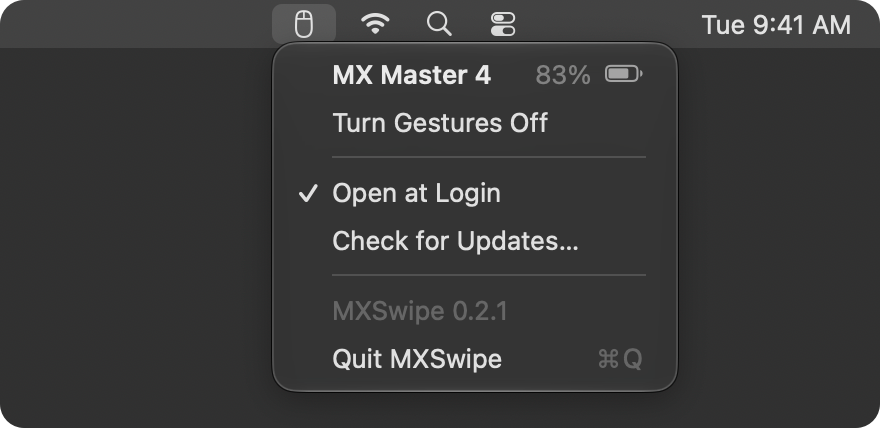
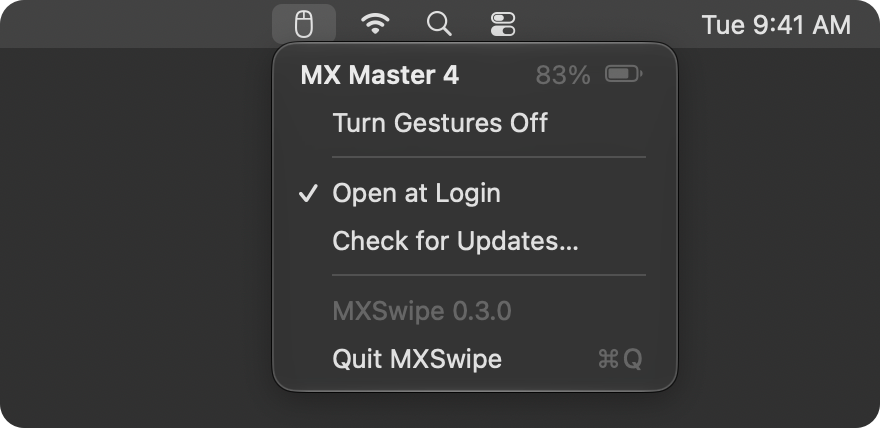
Address review: pin MenuHub 0.1.0, disable Check for Updates while Sparkle is busy, re-render README images

Changed region(s): [[0.3375, 0.1519, 0.583, 0.2126], [0.6136, 0.1519, 0.7364, 0.2126], [0.5523, 0.6986, 0.583, 0.7593]]

diff --git a/Sources/MXSwipe/main.swift b/Sources/MXSwipe/main.swift
@@ -20,7 +20,7 @@ final class AppDelegate: NSObject, NSApplicationDelegate {
     private static let logger = Logger(subsystem: "com.mattstallone.mxmasterinput", category: "App")
     private let session = MXMasterSession()
     private let updater = SPUStandardUpdaterController(startingUpdater: true, updaterDelegate: nil, userDriverDelegate: nil)
-    private var menu: MenuHub?
+    private var hub: MenuHub?
     private var connection: Task<Void, Never>?
     private var retry: Task<Void, Never>?
     private var retryDelay: Duration = .seconds(2)
@@ -30,7 +30,7 @@ final class AppDelegate: NSObject, NSApplicationDelegate {
     private var mouseName: String?
 
     private var status = Status.off {
-        didSet { menu?.update() }
+        didSet { hub?.update() }
     }
 
     /// Stored under the key 0.1.x used, so an upgrade keeps the user's choice.
@@ -41,7 +41,7 @@ final class AppDelegate: NSObject, NSApplicationDelegate {
 
     func applicationDidFinishLaunching(_ notification: Notification) {
         UserDefaults.standard.register(defaults: ["autoEnable": true])
-        menu = MenuHub(icon: NSImage(systemSymbolName: "computermouse", accessibilityDescription: appName)!) { self.section }
+        hub = MenuHub(icon: NSImage(systemSymbolName: "computermouse", accessibilityDescription: nil)!) { self.section }
         NSWorkspace.shared.notificationCenter.addObserver(self, selector: #selector(systemDidWake),
                                                           name: NSWorkspace.didWakeNotification, object: nil)
         if isEnabled { connect() }
@@ -53,7 +53,7 @@ final class AppDelegate: NSObject, NSApplicationDelegate {
 
     // MARK: Menu
 
-    /// The mouse, and its battery or what's keeping gestures from working. Read each time the menu opens.
+    /// This app's part of the menu, read again whenever it may be shown.
     private var section: MenuSection {
         var items: [MenuItem] = []
         switch status {
@@ -69,11 +69,12 @@ final class AppDelegate: NSObject, NSApplicationDelegate {
             .action(isEnabled ? "Turn Gestures Off" : "Turn Gestures On") { self.toggleEnabled() },
             .separator,
             .action("Open at Login", isOn: SMAppService.mainApp.status == .enabled) { self.toggleLogin() },
-            .action("Check for Updates…") { self.updater.checkForUpdates(nil) },
+            .action("Check for Updates…", isEnabled: updater.updater.canCheckForUpdates) { self.updater.checkForUpdates(nil) },
         ]
         return MenuSection(header: header, items: items, isActive: status.isActive)
     }
 
+    /// The mouse, and its battery or what's keeping gestures from working.
     private var header: MenuHeader {
         switch status {
         case let .connected(name, battery, asleep):

diff --git a/Tools/make-readme-assets.swift b/Tools/make-readme-assets.swift
@@ -18,16 +18,13 @@ let barHeight: CGFloat = 24
 
 /// The menu as MXSwipe shows it on its own, with the mouse connected.
 @MainActor func makeMenu() -> NSMenu {
-    let mxswipe = Member(pid: 1, name: "MXSwipe", version: "0.3.0", launched: Date(), revision: 0, isActive: true,
+    let mxswipe = Member(pid: 1, name: "MXSwipe", launched: Date(), revision: 0, isActive: true,
                          header: MenuHeader(title: "MX Master 4", detail: .battery(83)), items: [
                              .action("Turn Gestures Off") {}, .separator,
                              .action("Open at Login", isOn: true) {}, .action("Check for Updates…") {},
                          ])
     let menu = NSMenu()
-    MenuHub.populate(menu, with: [mxswipe], target: nil)
-    // Without an app to handle them, actions would draw disabled; enable them, and leave information gray.
-    menu.autoenablesItems = false
-    for item in menu.items { item.isEnabled = item.action != nil }
+    MenuHub.populate(menu, with: [mxswipe], version: "0.3.0", target: nil)
     return menu
 }
 

diff --git a/Package.swift b/Package.swift
@@ -6,7 +6,7 @@ let package = Package(
     platforms: [.macOS(.v26)],
     dependencies: [
         .package(url: "https://github.com/sparkle-project/Sparkle", exact: "2.9.4"),
-        .package(path: "../menuhub"),
+        .package(url: "https://github.com/mstallone/menuhub", exact: "0.1.0"),
     ],
     targets: [
         .executableTarget(

diff --git a/README.md b/README.md
@@ -19,7 +19,7 @@ and the desktop jumps.
 - A tap on the panel opens Mission Control.
 - The horizontal thumb wheel sends continuous, pixel-precise scroll events with the phases a
   two-finger trackpad scroll has, following your natural scrolling setting. Each app decides what
-  they do, so documents scroll sideways and Safari can swipe between pages. The main wheel is
+  the events do, so documents scroll sideways and Safari can swipe between pages. The main wheel is
   unchanged, and there is no momentum after you let go.
 - The menu-bar icon is bright while gestures work and faded while they're off or the mouse isn't
   connected. The menu shows the mouse and its battery. With [RetinaShot](https://github.com/mstallone/retinashot)
@@ -107,7 +107,7 @@ The tag is the version. Pushing `vMAJOR.MINOR.PATCH` runs the Release workflow: 
 Developer ID signature with hardened runtime and timestamp, notarization, stapling, Gatekeeper check,
 then a GitHub Release with the zip, its SHA-256, and a signed Sparkle `appcast.xml`.
 
-    git tag v0.2.1 && git push origin v0.2.1
+    git tag v0.3.0 && git push origin v0.3.0
 
 | Secret | Contents |
 |---|---|
